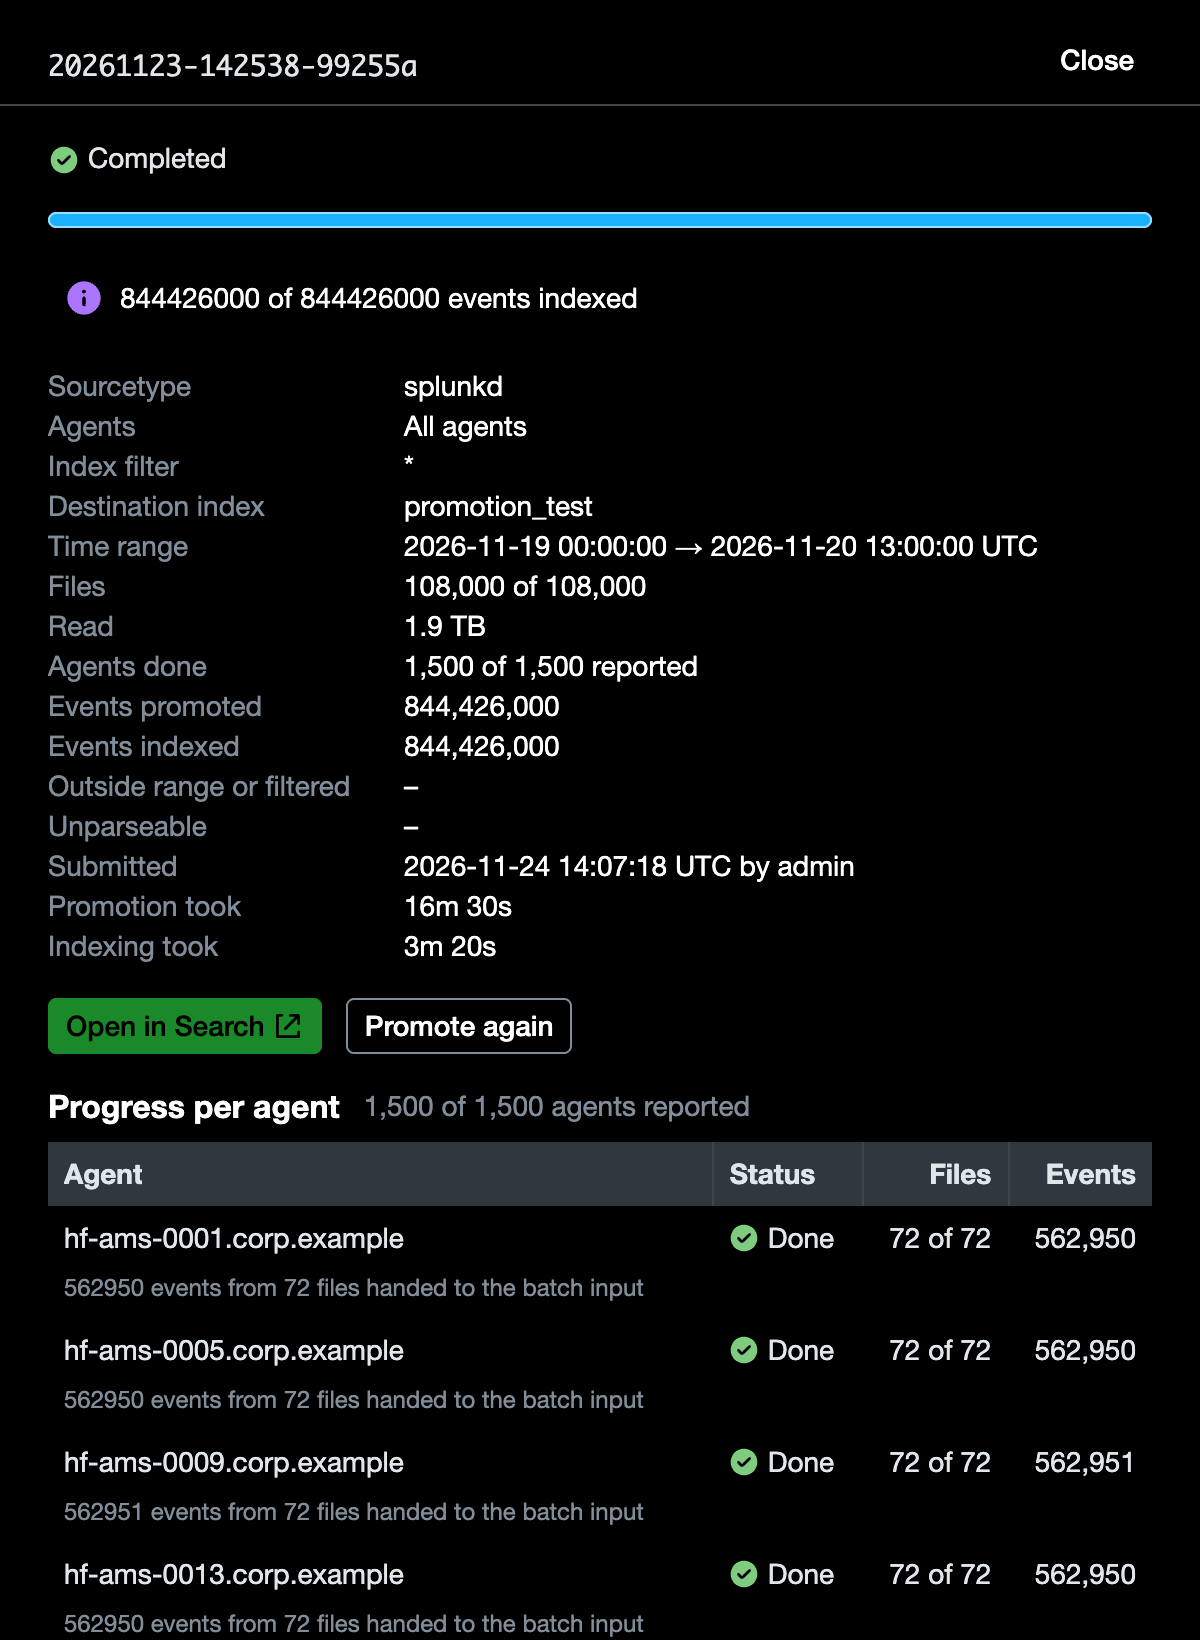
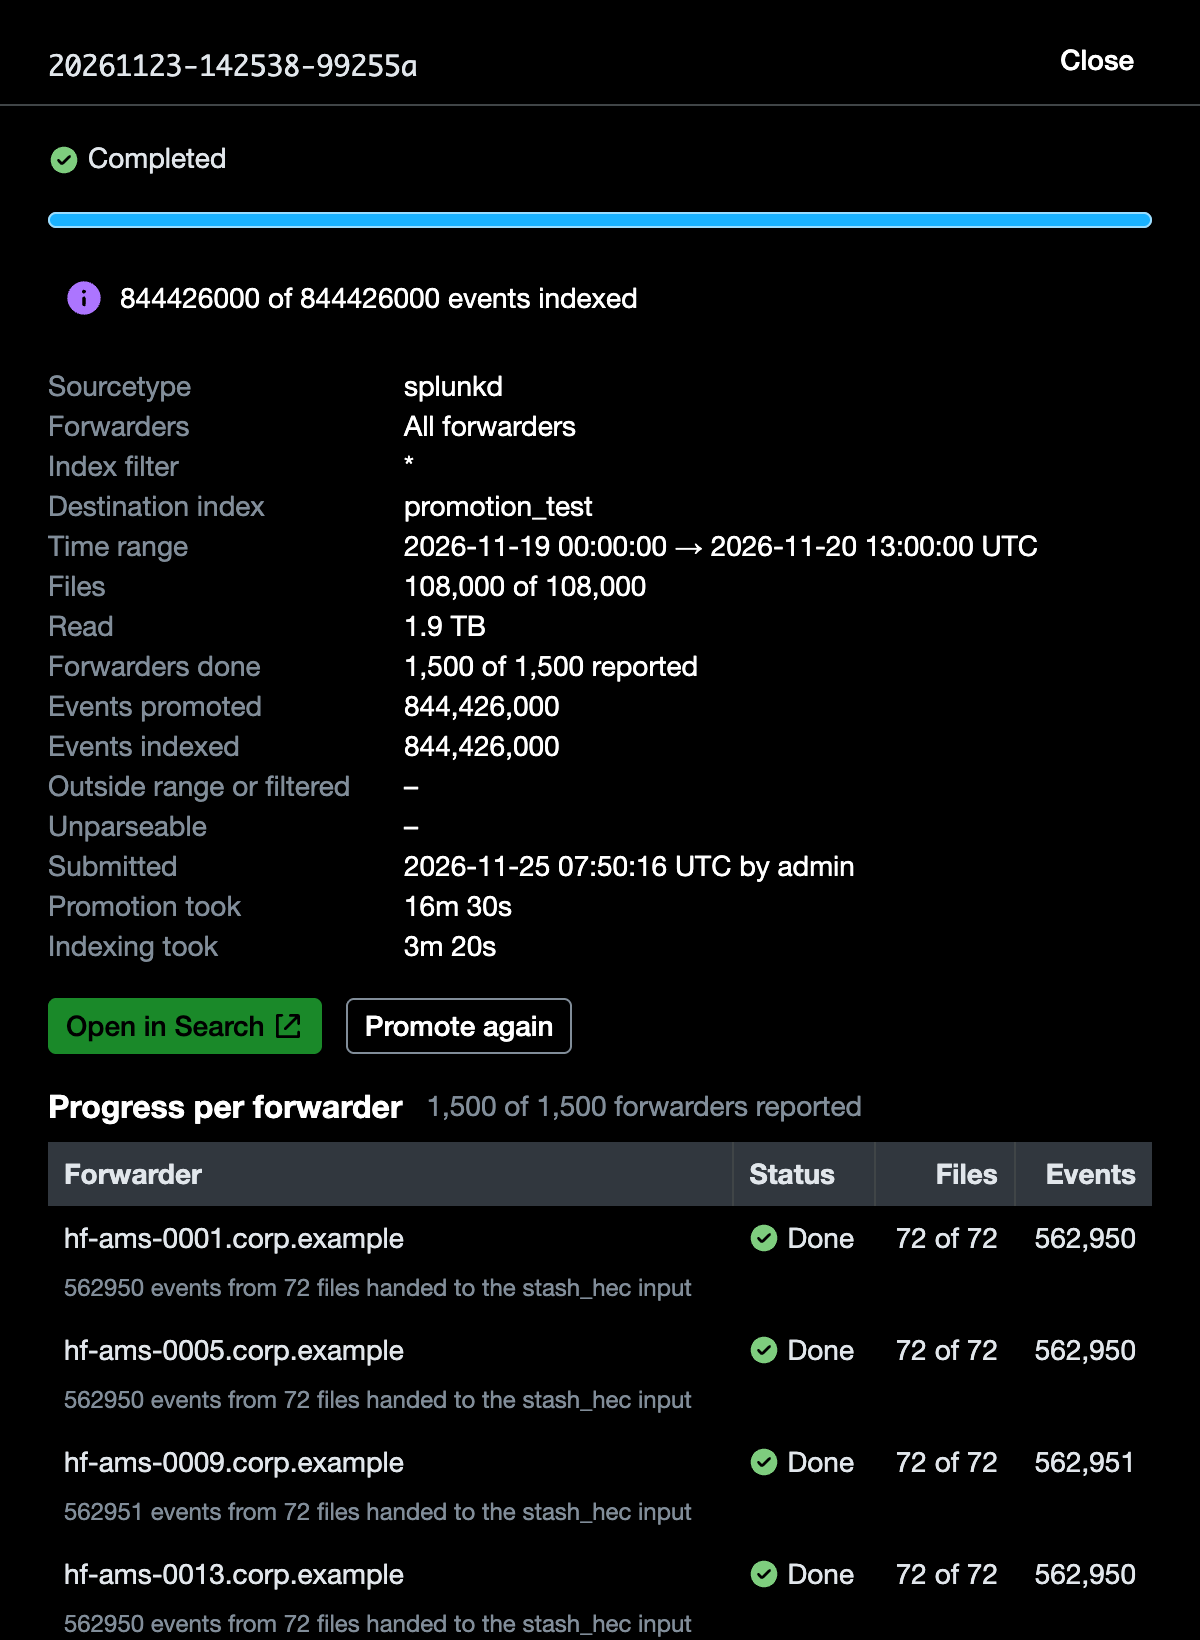
Retake the README screenshots with forwarder wording
Taken from the dev harness (light and dark) with the same views and selections as
before; the timeline and forwarder dialogs now also show the size estimate. The mock
size estimate follows the mock catalogs, and the mock task messages match the add-on's.

diff --git a/ui/dev/mockApi.js b/ui/dev/mockApi.js
@@ -45,13 +45,13 @@ export const fetchTasks = async (jobId) => (jobId.endsWith('99255a')
         const ev = 562950 + (i % 3 === 0 ? 1 : 0);
         return {
             _key: `${jobId}|${G(i)}`, agent: G(i), agent_host: host(i), status: 'done', files_total: 72, files_done: 72,
-            events_staged: ev, message: `${ev} events from 72 files handed to the batch input`,
+            events_staged: ev, message: `${ev} events from 72 files handed to the stash_hec input`,
         };
     })
     : Array.from({ length: jobId.endsWith('a1b2c3') ? 3 : 45 }, (_, i) => ({
     _key: `${jobId}|${G(i)}`, agent: G(i), agent_host: host(i),
     status: i === 0 ? 'running' : i === 4 ? 'failed' : 'done', files_total: 40, files_done: i === 0 ? 7 : 40,
-    events_staged: 401000 + i, message: i === 4 ? 'not enough free disk space (free=1073741824, need=2147483648)' : i === 0 ? 'promoting' : '401000 events from 40 files handed to the batch input',
+    events_staged: 401000 + i, message: i === 4 ? 'not enough free disk space (free=1073741824, min_free_bytes=10737418240)' : i === 0 ? 'promoting' : '401000 events from 40 files handed to the stash_hec input',
 })));
 export const fetchThemePreference = async () => null;
 export const cancelJob = async () => ({});
@@ -66,8 +66,9 @@ export const fetchAgentCatalog = async (guid) => {
     })));
 };
 
-// Per-agent size estimate: about 12-24 GB per agent and day, so a few weeks exceed the
-// 50 GiB default. Every 50th agent reports a higher limit; agents before 2.2.0 report none.
+// Per-forwarder size estimate, consistent with the mock catalogs above: all forwarders
+// together hold the fetchCatalog bytes per day; one forwarder's view uses its
+// fetchAgentCatalog size. Every 50th forwarder reports a higher limit; older add-ons none.
 const toEpoch = (v) => {
     const t = String(v);
     if (/^\d+(\.\d+)?$/.test(t)) return Number(t);
@@ -79,10 +80,11 @@ export const fetchSizeEstimate = async (sourcetype, agents, earliest, latest) =>
     const hi = Math.min(toEpoch(latest), now);
     const days = Math.max(0, hi - lo) / 86400;
     const pick = agents.length ? agents : Array.from({ length: N }, (_, i) => G(i));
+    const perDay = agents.length === 1 ? 4.6e8 : (2.1e10 * (Math.max(0, sts.indexOf(sourcetype)) + 1)) / N;
     return pick.map((g) => {
         const i = parseInt(g.slice(0, 8), 10) || 0;
         return {
-            agent: g, hostname: host(i), bytes: String(Math.round(days * (1.2e10 + (i % 7) * 2e9))),
+            agent: g, hostname: host(i), bytes: String(Math.round(days * perDay * (0.7 + (i % 7) * 0.1))),
             max_bytes_per_job: i % 50 === 0 ? '107374182400' : (i % 3 ? '53687091200' : ''),
             earliest: String(lo), latest: String(hi),
         };
